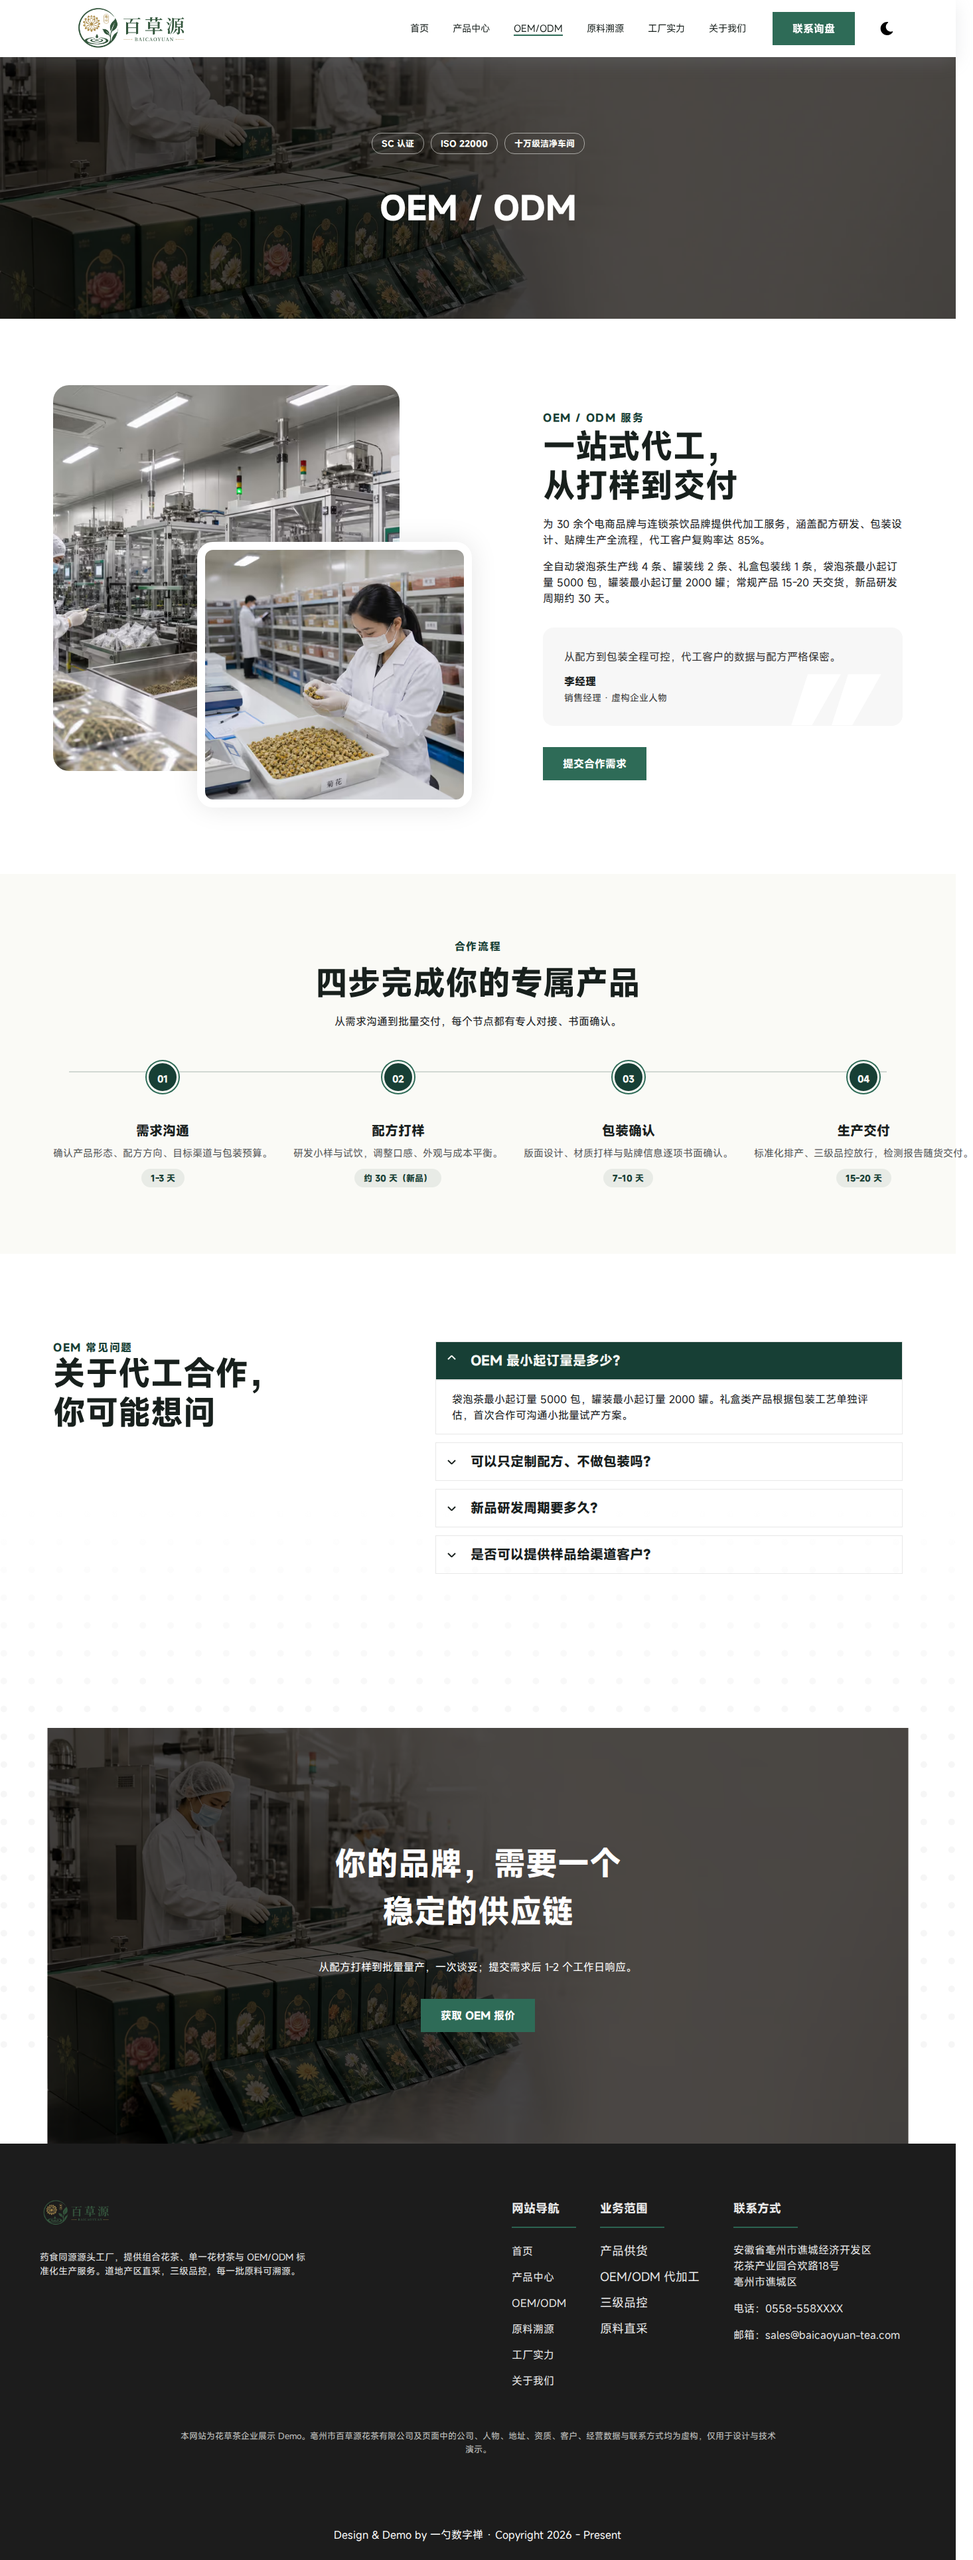
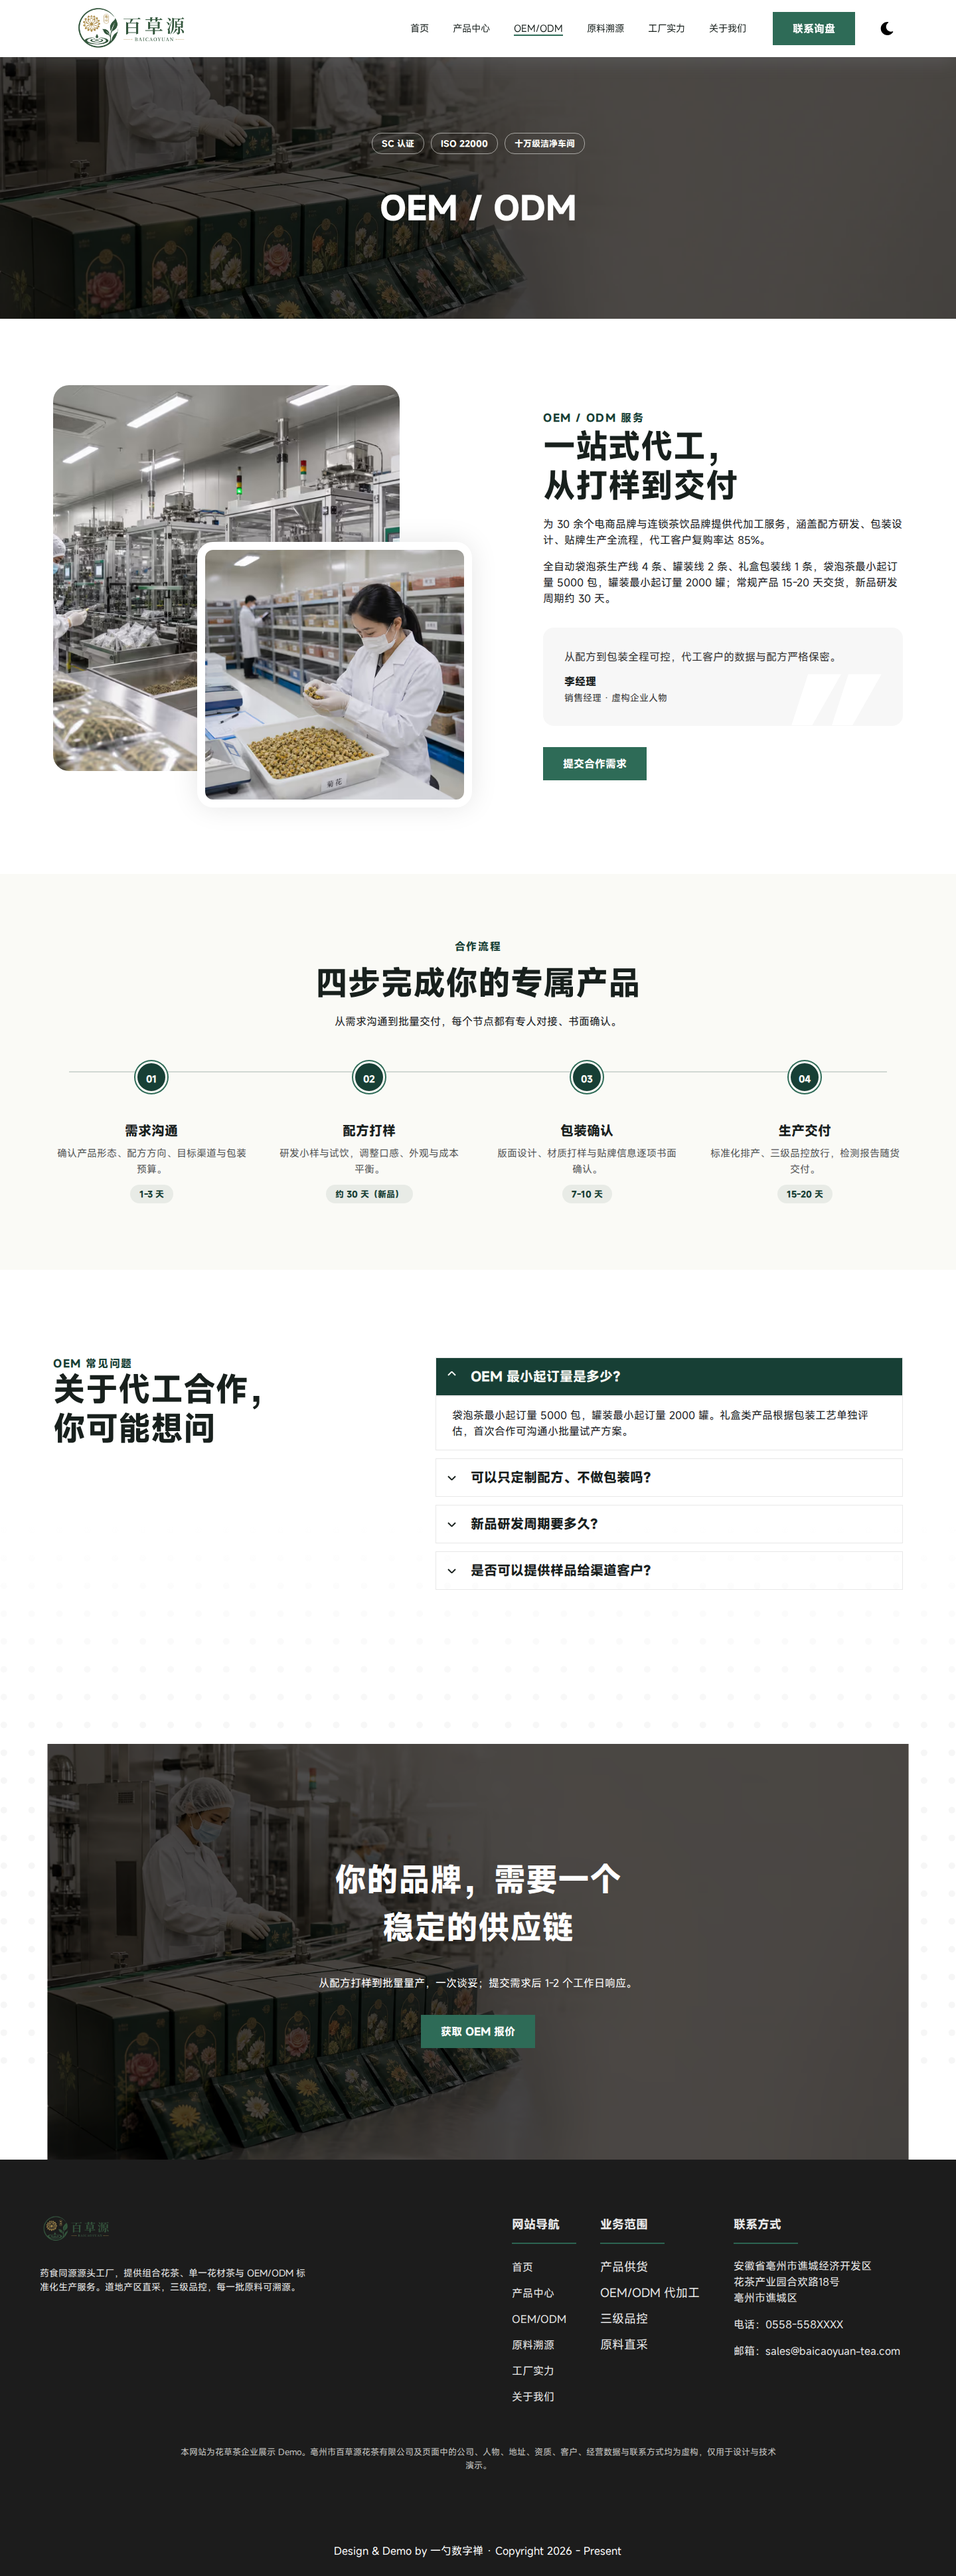
feat: reveal motion layer and three signature animations

diff --git a/src/js/reveal.js b/src/js/reveal.js
@@ -1,0 +1,38 @@
+/**
+ * reveal.js - zero-dependency reveal layer.
+ *
+ * Responsibilities (only):
+ *   1. When JS is available and motion is not reduced, add the
+ *      `cs-reveal-pending` class to every [data-reveal] element.
+ *   2. When an element enters the viewport, swap to `cs-revealed` and stop
+ *      observing it.
+ *
+ * The animation itself (opacity / transform / transition) is defined by each
+ * component in its own scoped styles - this file does not dictate a unified
+ * visual. Elements are visible by default, so with JS disabled or
+ * prefers-reduced-motion the content simply stays visible.
+ */
+
+document.addEventListener("astro:page-load", () => {
+	if (window.matchMedia("(prefers-reduced-motion: reduce)").matches) return;
+	if (!("IntersectionObserver" in window)) return;
+
+	const elements = Array.from(document.querySelectorAll("[data-reveal]"));
+	if (elements.length === 0) return;
+
+	elements.forEach((el) => el.classList.add("cs-reveal-pending"));
+
+	const observer = new IntersectionObserver(
+		(entries) => {
+			for (const entry of entries) {
+				if (entry.isIntersecting) {
+					entry.target.classList.add("cs-revealed");
+					observer.unobserve(entry.target);
+				}
+			}
+		},
+		{ threshold: 0.15, rootMargin: "0px 0px -8% 0px" }
+	);
+
+	elements.forEach((el) => observer.observe(el));
+});

diff --git a/docs/HOMEPAGE_REVIEW.md b/docs/HOMEPAGE_REVIEW.md
@@ -89,6 +89,25 @@
 - 联系信息卡遮罩改为方向性深绿→黑渐变，解决白字落在浅色车间背景上的对比度问题。
 - 业务模块提取为 scoped 业务组件：ProductCatalog / OEMProcess / SourcingAtlas / FactoryCapabilities / InquiryForm / BrandTimeline（P2 创建）；页面仅保留组合与数据；未建立全局 .card/.grid 系统。
 
+### 页面差异化与动效阶段记录（2026-08-12）
+
+**差异化构图**（`95bcc5c`，六页各具结构身份，消除"同一模板换内容"）：
+- OEM：四步白卡 → **横向流程线**（桌面 01-04 节点 + 贯穿连接线；移动/平板纵向时间线）；顺序成为结构。
+- About：删 FAQ 与第二组错位双图 → **品牌时间轴**（2008/2012/2015/2026 左右交替，中间竖轨）；使命/价值观/愿景改为非卡片行式；保留一组错位图。
+- Products：9 卡网格 → **三种产品线构图**：经典组合茶（大图主推 + 横向目录行）、单一花材茶（档案式分割线列表）、礼盒系列（宽幅场景卡 + 深绿文字宽幅卡）；缺图产品用小面积品牌色块（无大面积占位块）。
+- Factory：设备卡 → **设备能力带**（大号静态数字 04/02/01/02 + 单位，无滚动计数）。
+- Traceability：六信息卡 → **产地关系图**（左侧工厂枢纽 + 六产地节点，右侧选中原料档案面板，原生 tab 交互；移动端纵向完整列表）。
+- Banner：单一居中横幅 → **四种版式变体**（default 居中 / editorial 左对齐+引导文案 / industrial 加高+能力标签 / compact 紧凑），六页各自匹配。
+- CTA：参数化，六页专属文案（样品、报价、验厂、询盘等）。
+- 修复 OEM 流程线 calc() 内 LESS 除法非法表达式（同类问题第二次，改为字面 rem 值）与产品目录行移动端溢出（flex-wrap 两行布局）。
+
+**动效层**（`Phase 3-4`）：
+- `src/js/reveal.js`：零依赖 IntersectionObserver 揭示层——JS 不可用时元素保持可见；`prefers-reduced-motion` 下不启用；每次进入页面最多播放一次；位移 12-18px；transform/opacity 无布局位移；不定义统一视觉，动画由各组件 scoped 决定。
+- 三处专属编排：① 首页 Services 三卡 120ms 错开；② OEM 流程线延伸 + 四节点 180ms 顺序激活；③ TraceabilityArchive 四阶段 160ms 点亮 + 流程线绘制 + 批号状态（"批次状态：已交付 · 示例批号 DEMO-2026-0812-003"，DEMO 全站唯一）最后显现。
+- 其余页面保持克制，未加动效。
+
+**验收**（`Phase 5`）：7 页 × 390/768/1440 无横向溢出；JS 关闭内容可见；reduced-motion 关闭动效；View Transitions 前进/返回正常（动效随导航重播一次）；图片全部加载；未引入动画库（GSAP 按规划暂缓，先以原生验证 Traceability 效果）。
+
 ## 未施工页面清单（保持模板状态，不在本轮范围）
 
 - 产品中心（/products/）、OEM/ODM（/oem/）、原料溯源（/traceability/）、工厂实力（/factory/）、关于我们（/about/）、联系询盘（/contact/）——导航与首页 CTA 已指向这些路由，页面尚未建设。
